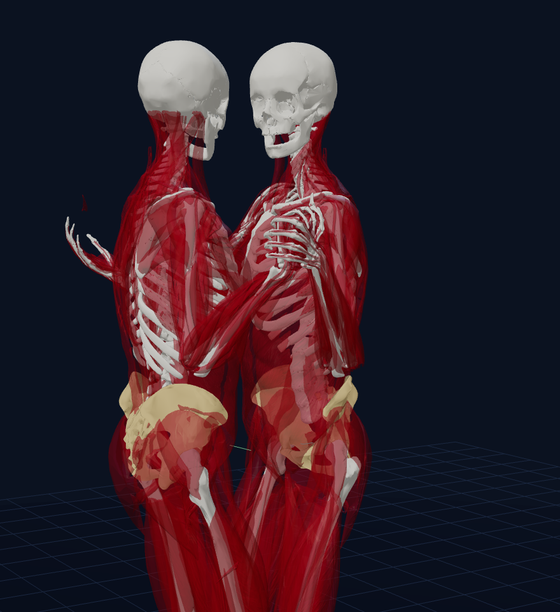
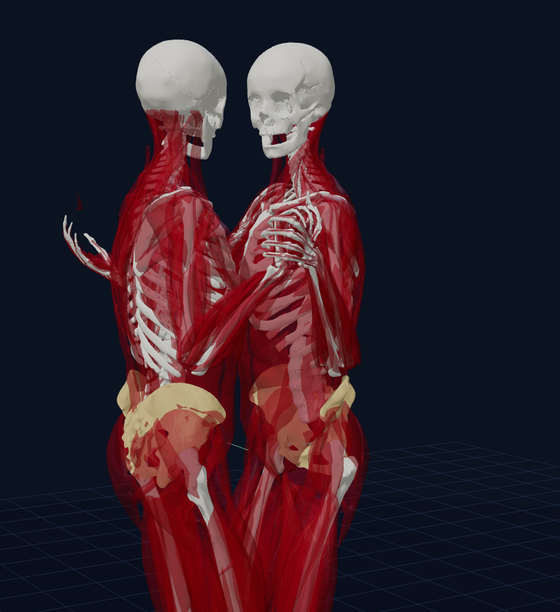
feat(#179): l'attitude choisie devient le comportement — mains jointes sur le côté, emboîtées, pouce du guideur légèrement replié
Choix du propriétaire, 23 novembre 2026 : l'attitude B. Les mains jointes ne sont plus entre les deux poitrines
(CADRE.handsSide), la prise dressée vaut par défaut (GRIP.upright), l'interrupteur ?essai=mainsCote disparaît ;
?essai=mainsBasses reste filmable. Pouce du guideur replié de 20° à chacune de ses deux articulations.
test_upper_body garde la prise : os des deux mains sans recouvrement, paumes face à face, pouce vers le haut,
main de la suiveuse dressée. Dossier, specs et images refaits.

Changed region(s): [[0.0911, 0.0621, 0.6679, 1.0], [0.5464, 0.0621, 0.5768, 0.0931]]

diff --git a/src/cadre.ts b/src/cadre.ts
@@ -40,10 +40,10 @@ export const CADRE = {
   /** #178: how deep (m) his arm would enter her torso, aimed at her back, for the hand to have fully left it.
    * Below that depth the hand is on its way: no jump between the back and the open frame. */
   leave: 0.05,
-  /** #179 (election, `?essai=`): the joined hands carried to the couple's side instead of between the two
-   * chests. `out`: metres outwards from the shoulders' midpoint; `drop`: metres lower than `handsDrop` (negative:
-   * higher). `handsSide` (owner, 23 November 2026): the middle of the hands at shoulder height, so the palm's
-   * centre a little under the shoulders and the fingers above them. */
+  /** #179: the joined hands are carried to the couple's side, not between the two chests. `out`: metres outwards
+   * from the shoulders' midpoint; `drop`: metres lower than `handsDrop` (negative: higher). `handsSide` (owner's
+   * choice, 23 November 2026): the middle of the hands at shoulder height, so the palm's centre a little under the
+   * shoulders. `handsLow`: a lower candidate, filmed with `?essai=mainsBasses`. */
   handsSide: { out: 0.2, drop: -0.05 }, handsLow: { out: 0.14, drop: 0.14 },
 };
 
@@ -94,13 +94,12 @@ export function solveFrame(own: ArmRig, partner: ArmRig, follower: boolean) {
   const leaderRig = follower ? partner : own, followerRig = follower ? own : partner;
   const joined = shoulder(leaderRig, "L").add(shoulder(followerRig, "R")).multiplyScalar(0.5);
   joined.y -= CADRE.handsDrop;
-  // #179: candidates of the election, inert without `?essai=`.
-  const carried = essai("mainsCote") ? CADRE.handsSide : essai("mainsBasses") ? CADRE.handsLow : null;
-  if (carried) {
-    const centre = leaderRig.chest.getWorldPosition(new THREE.Vector3()).add(followerRig.chest.getWorldPosition(new THREE.Vector3())).multiplyScalar(0.5);
-    joined.addScaledVector(joined.clone().sub(centre).setY(0).normalize(), carried.out);
-    joined.y -= carried.drop;
-  }
+  // #179 (owner's choice, 23 November 2026): the hands are carried to the couple's side, their middle at shoulder
+  // height. `handsLow` stays a candidate to film, inert without `?essai=mainsBasses`.
+  const carried = essai("mainsBasses") ? CADRE.handsLow : CADRE.handsSide;
+  const centre = leaderRig.chest.getWorldPosition(new THREE.Vector3()).add(followerRig.chest.getWorldPosition(new THREE.Vector3())).multiplyScalar(0.5);
+  joined.addScaledVector(joined.clone().sub(centre).setY(0).normalize(), carried.out);
+  joined.y -= carried.drop;
   const down = (rig: ArmRig, s: "L" | "R", out: number, drop: number) =>
     site(rig, [(s === "L" ? 1 : -1) * out, drop, 0]);
   const arms = follower ? {

diff --git a/src/upperBody.ts b/src/upperBody.ts
@@ -102,7 +102,7 @@ interface Arm {
  * may bend away from the forearm's axis (rad); `swivel`: how far her hand may turn on his palm, away from the
  * line to his index, towards where her forearm comes from (rad). */
 export const GRIP = { shift: 0.012, gap: 0.004, wrist: 1.0, swivel: 0.7,
-  /** Hands held up at the couple's side (#179, candidate `?essai=mainsCote`; owner, 23 November 2026).
+  /** Hands held up at the couple's side (#179; the owner's choice, 23 November 2026).
    * As in a ballroom hold (reference photograph, see the election's README): the leader's thumb points to the sky,
    * his fingers go forwards, raised by `lift` (rad), and close in one block round the edge of the follower's hand,
    * onto its back; `palm`: where his palm is asked to face, in his chest frame (the palm's normal leans 9° towards
@@ -119,7 +119,7 @@ export const GRIP = { shift: 0.012, gap: 0.004, wrist: 1.0, swivel: 0.7,
   upright: {
     palm: [-1, 0, 0.73] as V3, across: 1.373, at: [0.013, -0.01, 0.025] as V3, roll: 0.12, pitch: -0.116,
     lift: 0.5,
-    his: { fingers: [1.35, 0.437, 0.913], thumb: [1.55, 0.05, 0.1] } as HandShape,
+    his: { fingers: [1.35, 0.437, 0.913], thumb: [1.55, 0.35, 0.35] } as HandShape,
     hers: { fingers: [1, 1.011, 0.306], thumb: [0.459, 0, 0.573] } as HandShape,
     elbow: [0.25, -1, 0.1] as V3, drop: 0.1, wrist: 1.25,
   } };
@@ -235,8 +235,9 @@ export class UpperBody {
       // Flexion the rig asks of the elbow: the angle from the line of its arm to its forearm.
       const armU = r["armU" + s] as THREE.Object3D | undefined;
       const folded = !!armU && rigElbow.clone().sub(armU.getWorldPosition(new THREE.Vector3())).angleTo(target.clone().sub(rigElbow)) > ELBOW_MAX;
-      // #179, candidate: the joined hands held up, the follower's hand fitted into the leader's.
-      const upright = hold === "hands" && essai("mainsCote");
+      // #179: the joined hands held up, the follower's hand fitted into the leader's (the lower candidate
+      // `?essai=mainsBasses` keeps the hold of 22 November).
+      const upright = hold === "hands" && !essai("mainsBasses");
       const shape = hold === "hands" ? (upright ? (follower ? GRIP.upright.hers : GRIP.upright.his) : follower ? HAND_SHAPES.closes : HAND_SHAPES.offers)
         : hold === "back" ? HAND_SHAPES.flat : HAND_SHAPES.relaxed;
       // #179: the follower's hand takes the leader's, as his is posed (his layer of this image or of the last).

diff --git a/src/essais.ts b/src/essais.ts
@@ -8,17 +8,14 @@
  *
  * Premier tour (votes du 21 novembre 2026) : `idaMemePied` (#86), `ligneBustes` (#72) et `marcheDeroulee`
  * (#73) ont été retirés ; le témoin reste, pour les prochains tours.
- * Tour des mains (#179, 22 novembre 2026) : `mainsCote`, `mainsBasses`.
+ * Tour des mains (#179) : `mainsCote` choisie le 23 novembre 2026, devenue le comportement et retirée ;
+ * `mainsBasses` reste filmable.
  */
 export const ESSAIS = {
   /** Témoin : ne change rien. Sert à filmer le comportement actuel image par image hors du mode paire. */
   temoin: "témoin : comportement actuel",
-  /** #179 : les mains jointes tenues sur le côté du couple, leur milieu à hauteur d'épaule ; pouce du guideur vers le
-   * ciel, paume à mi-chemin entre sa droite et la suiveuse, ses doigts refermés sur le tranchant de la main de la
-   * suiveuse ; main de la suiveuse dressée, ses quatre doigts entre le pouce et l'index du guideur (précisions du
-   * 23 novembre 2026, photo de référence d'une tenue de salon). */
-  mainsCote: "mains jointes sur le côté du couple, leur milieu à hauteur d'épaule, emboîtées",
-  /** #179 : les mains jointes sur le côté du couple, plus bas et plus près, coudes détendus. */
+  /** #179 : les mains jointes sur le côté du couple, plus bas et plus près, coudes détendus, avec la prise du
+   * 22 novembre (l'attitude choisie les tient au niveau des épaules, emboîtées). */
   mainsBasses: "mains jointes sur le côté du couple, plus bas",
 } as const;
 export type Essai = keyof typeof ESSAIS;

diff --git a/docs/regles-proprietaire.md b/docs/regles-proprietaire.md
@@ -60,7 +60,7 @@ seuil chiffré : ils n'y figurent pas.
 | R19 | Cadre leader/suiveur : points de contact (avant-bras, biceps, omoplate, bassin, aisselle, coude, épaule, plexus) et intentions de guidage | Mains qui se rejoignent, main D du leader sur l'omoplate du suiveur, contraintes de contact | [cadre](cadre/spec-implementation.md) (#40) | oui pour les bras (#77 : mains sur l'omoplate et mains jointes, IK) ; contraintes sur bustes et bassins à venir |
 | R20 | « Ces points de contact vont ajouter des contraintes qui vont aider à converger vers les bons mouvements de danse » | Les contacts contraignent bras, bustes et bassins | [cadre](cadre/spec-implementation.md) | non |
 | R35 | Le bras droit du guideur ne se baisse pas (22 nov.) | Dans toutes les figures en paire, la main droite du guideur reste au-dessus de sa taille, même hors du dos de la suiveuse ; elle quitte le dos sans saut | [cadre](cadre/spec-implementation.md#le-bras-droit-du-guideur-ne-se-baisse-pas-178-22-novembre-2026) (#178) | oui (`test_cadre.mjs` : jamais sous −15 cm dans le repère de sa poitrine ; saut du coude 31 → 9 cm) |
-| R36 | La main droite de la suiveuse dans la main gauche du guideur, en position fermée : plusieurs attitudes (hauteur du coude, ouverture) ; prise : phalanges serrées, pouce ouvert presque à angle droit, main de la suiveuse posée en travers de celle du guideur (bas de sa paume au bord de la main du guideur), ses phalanges refermées autour de l'index du guideur, pouces croisés (22 nov.) ; dans l'attitude sur le côté, les mains se lèvent légèrement au-dessus de l'épaule (leur milieu à hauteur d'épaule), la paume du guideur regarde à mi-chemin entre sa droite et la suiveuse ; emboîtement : les doigts de l'index à l'auriculaire font un seul bloc (comme dans une moufle, rien ne passe entre eux), les quatre doigts de la suiveuse passent entre le pouce et l'index du guideur, paume contre paume, son pouce sous le sien, sans qu'os ni muscles se traversent ; référence, une photo de tenue de salon : main de la suiveuse dressée, pouce du guideur vers le ciel, ses doigts refermés sur le tranchant de la main de la suiveuse (23 nov.) | Mains visibles, hors des cages thoraciques ; prise conforme sur gros plan | [dossier](elections/2026-11-22-mains/README.md) (#179) | attitudes filmables (`?essai=`) ; doigts et poignet articulés avec `haut=1`, main de la suiveuse en travers de celle du guideur ([spec](spec-haut-du-corps.md)) ; attitude sur le côté (`?essai=mainsCote`, `scripts/mesure_essai_mains.mjs`) : milieu des mains à 1,6 cm sous les épaules, paume du guideur à 45° de sa droite, son pouce vers le ciel et ses doigts à 29° au-dessus de l'horizontale, main de la suiveuse dressée (à 19° de la verticale), os des deux mains au contact sans se traverser dans les cinq figures ; à juger sur gros plans |
+| R36 | La main droite de la suiveuse dans la main gauche du guideur, en position fermée : plusieurs attitudes (hauteur du coude, ouverture) ; prise : phalanges serrées, pouce ouvert presque à angle droit, main de la suiveuse posée en travers de celle du guideur (bas de sa paume au bord de la main du guideur), ses phalanges refermées autour de l'index du guideur, pouces croisés (22 nov.) ; dans l'attitude sur le côté, les mains se lèvent légèrement au-dessus de l'épaule (leur milieu à hauteur d'épaule), la paume du guideur regarde à mi-chemin entre sa droite et la suiveuse ; emboîtement : les doigts de l'index à l'auriculaire font un seul bloc (comme dans une moufle, rien ne passe entre eux), les quatre doigts de la suiveuse passent entre le pouce et l'index du guideur, paume contre paume, son pouce sous le sien, sans qu'os ni muscles se traversent ; référence, une photo de tenue de salon : main de la suiveuse dressée, pouce du guideur vers le ciel, ses doigts refermés sur le tranchant de la main de la suiveuse (23 nov.) | Mains visibles, hors des cages thoraciques ; prise conforme sur gros plan | [dossier](elections/2026-11-22-mains/README.md) (#179) | attitude sur le côté choisie le 23 nov., devenue le comportement (une plus basse reste filmable, `?essai=mainsBasses`) ; doigts et poignet articulés avec `haut=1`, main de la suiveuse en travers de celle du guideur ([spec](spec-haut-du-corps.md)) ; mesures (`scripts/mesure_essai_mains.mjs`, gardées par `scripts/test_upper_body.mjs`) : milieu des mains à 1,6 cm sous les épaules, paume du guideur à 45° de sa droite, son pouce vers le ciel et ses doigts à 29° au-dessus de l'horizontale, main de la suiveuse dressée (à 19° de la verticale), os des deux mains au contact sans se traverser dans les cinq figures ; squelettes jugés bons sur gros plans (23 nov.) |
 | R37 | L'avant-bras ou la main gauche de la suiveuse est posé sur l'épaule droite du guideur, contre le devant ou le côté de l'épaule ; son coude gauche cherche le contact avec le bras droit du guideur, sur lequel elle s'appuie quand il l'élève par l'épaule ou l'aisselle (boléro, etc.) (22 nov.) | Main sur l'épaule quand elle est à portée ; coude près du bras du guideur | [cadre](cadre/spec-implementation.md) (#180) | oui pour la pose (`test_cadre.mjs` : coude à 10–11 cm de l'axe du bras en moyenne) ; l'appui quand le guideur l'élève reste à faire |
 
 ## Musique

diff --git a/docs/spec-haut-du-corps.md b/docs/spec-haut-du-corps.md
@@ -76,11 +76,12 @@ Ces amplitudes sont des paramètres de ce modèle, pas des normes cliniques ni d
   le bas de sa paume au bord de la main du guideur, ses doigts vers son index, son pouce vers le sien. Son poignet
   s'articule pour cela (jusqu'à 57° hors de l'axe de l'avant-bras), et sa main peut tourner de 40° sur la paume du
   guideur vers la ligne de son propre avant-bras.
-- **Attitude sur le côté, mains emboîtées** (candidat `?essai=mainsCote`, `GRIP.upright` ; précisions du propriétaire,
+- **Attitude sur le côté, mains emboîtées** (choisie par le propriétaire le 23 novembre 2026, comportement de
+  l'application ; `GRIP.upright` ; ses précisions,
   23 novembre 2026, avec une [photo d'une tenue de salon, Wikimedia Commons](https://commons.wikimedia.org/wiki/File:Ballroom_dance_exhibition.jpg) en référence) : la paume du guideur est au point du rig, tournée à
   mi-chemin entre sa droite et la suiveuse (`palm`) ; son pouce pointe vers le ciel, ses doigts vont vers l'avant, à 29°
   au-dessus de l'horizontale (`lift`), et se referment d'un seul bloc sur le tranchant de la main de la suiveuse,
-  jusque sur le dos de sa main ; son poignet s'articule lui aussi, son pouce s'ouvre à angle droit (`his`). La main de
+  jusque sur le dos de sa main ; son poignet s'articule lui aussi, son pouce s'ouvre à angle droit, légèrement replié (`his`). La main de
   la suiveuse se place dans le repère de la sienne : dressée, à 79° de ses doigts vers son pouce (`across`), paume
   contre paume (`at`, `roll`, `pitch`), ses quatre doigts d'un seul bloc entre son pouce et son index, refermés autour
   de la palmure, son pouce sous le sien (`hers`). Aucun os ne traverse l'autre main : les constantes viennent d'une
@@ -88,7 +89,7 @@ Ces amplitudes sont des paramètres de ce modèle, pas des normes cliniques ni d
   guideur). Son coude tend sous sa main (`drop`) ; son poignet peut plier jusqu'à 72° dans cette prise (`wrist`) : les
   mains sont près des deux corps, son avant-bras arrive par le dos de sa main, qui pousse comme contre un mur.
 
-  | `ESSAI=mainsCote node scripts/mesure_essai_mains.mjs` | Sur place | Dans les figures |
+  | `node scripts/mesure_essai_mains.mjs` | Sur place | Dans les figures |
   |---|---|---|
   | Milieu des mains / moyenne des épaules | 1,6 cm dessous ; haut des doigts 2,8 cm au-dessus | 1,6 à 2 cm dessous |
   | Paume du guideur / sa droite | 45° | 39° à 46° |

diff --git a/CONTEXT.md b/CONTEXT.md
@@ -13,8 +13,10 @@ dépôt (ce fichier, `docs/spec-*.md`, `docs/adr/*`, `docs/TASKS.md`, README) et
 - **Prise des mains (#179, R36)** : la main droite de la suiveuse dans la main gauche du guideur. Aujourd'hui les
   mains jointes sont entre les deux poitrines (cachées, coudes repliés). Le propriétaire a précisé qu'il existe
   plusieurs attitudes et a décrit la prise (phalanges serrées, pouce ouvert, main de la suiveuse en travers de celle
-  du guideur, refermée autour de son index, pouces croisés). Attitudes filmables : `?essai=mainsCote`,
-  `?essai=mainsBasses`, inertes sans le paramètre ([dossier](docs/elections/2026-11-22-mains/README.md)).
+  du guideur, refermée autour de son index, pouces croisés). Dossier :
+  [élection des mains](docs/elections/2026-11-22-mains/README.md) ; **choix du 23 novembre : l'attitude B**, devenue le
+  comportement (mains sur le côté du couple, leur milieu à hauteur d'épaule, emboîtées) ; C reste filmable
+  (`?essai=mainsBasses`).
   Fait dans le haut du corps anatomique : doigts articulés, formes de main, poignet de la suiveuse articulé, sa main
   posée en travers de celle du guideur ([spec](docs/spec-haut-du-corps.md)). Reste : son poignet va au bout de son
   amplitude, les doigts ne se serrent pas, et le rig stylisé (sans `haut=1`) n'a pas de doigts.
@@ -22,7 +24,7 @@ dépôt (ce fichier, `docs/spec-*.md`, `docs/adr/*`, `docs/TASKS.md`, README) et
   bas). Il a corrigé B en trois temps : mains levées (leur milieu à hauteur d'épaule) ; paume du guideur à mi-chemin
   entre sa droite et la suiveuse, sa main vers le ciel ; puis l'emboîtement — les quatre doigts de la suiveuse, d'un
   seul bloc, entre le pouce et l'index du guideur, paume contre paume, son pouce sous le sien, sans qu'os ni muscles
-  se traversent. C'est fait dans le candidat `?essai=mainsCote` (`CADRE.handsSide`, `GRIP.upright` ; sonde
+  se traversent. C'est fait dans l'attitude B (`CADRE.handsSide`, `GRIP.upright` ; sonde
   `scripts/search_prise_mains.mjs`, mesures `scripts/mesure_essai_mains.mjs`) : os des deux mains au contact sans se
   traverser. Puis il a donné une photo de tenue de salon en référence : la prise a tourné d'un quart de tour dans le plan
   des paumes — pouce du guideur vers le ciel, ses doigts refermés sur le tranchant de la main de la suiveuse, dont la

diff --git a/AGENTS.md b/AGENTS.md
@@ -43,9 +43,9 @@ Haut du corps anatomique (#176) : [spec](docs/spec-haut-du-corps.md) ; option `h
 (`public/anatomy_upper.glb`, `scripts/build_upper_body.mjs`, `src/upperBody.ts` pur, `src/components/UpperBodyLayer.tsx`,
 `scripts/test_upper_body.mjs`) ; la main anatomique vient où le rig pose la sienne ; le rig publie la couche dans `rig.upperBody`.
 Cadre des bras (#40, [spec](docs/cadre/spec-implementation.md), `src/cadre.ts`, `scripts/test_cadre.mjs`) : le bras droit du guideur ne se baisse pas (#178, R35) ;
-main gauche de la suiveuse sur l'épaule droite du guideur, coude vers son bras (#180, R37) ; prise des mains (#179, R36) : attitudes `?essai=mainsCote|mainsBasses`
+main gauche de la suiveuse sur l'épaule droite du guideur, coude vers son bras (#180, R37) ; prise des mains (#179, R36) : attitude choisie le 23 novembre (mains sur le côté, emboîtées), candidat restant `?essai=mainsBasses`
 ([dossier](docs/elections/2026-11-22-mains/README.md)), doigts et poignet articulés dans le haut du corps (`HAND_SHAPES`, `GRIP`, `src/upperBody.ts`) ;
-emboîtement des mains du candidat `mainsCote` : sonde de calibrage `scripts/search_prise_mains.mjs`, mesure `scripts/mesure_essai_mains.mjs` (jeu entre les os des deux mains).
+emboîtement des mains : sonde de calibrage `scripts/search_prise_mains.mjs`, mesure `scripts/mesure_essai_mains.mjs` (jeu entre les os des deux mains).
 Mode jeu (#140, [spec](docs/spec-jeu-file-auto.md)) : les commandes s'empilent dans une file (plus de note ni
 de refus), Espace bascule entre l'écoute et la danse automatique (tirage reproductible par graine) ; un plan
 ne réécrit jamais son passé. Hasard tenu (#152) : le tirage se souvient des figures et des paires récentes

diff --git a/docs/cadre/spec-implementation.md b/docs/cadre/spec-implementation.md
@@ -375,11 +375,12 @@ cachées entre les cages thoraciques et que les doigts entrent dans les côtes d
 
 Le propriétaire a précisé qu'il existe plusieurs attitudes (hauteur du coude, mains ouvertes vers l'extérieur ou
 gardées près de l'épaule) et il a décrit la prise : phalanges serrées, pouce ouvert, main de la suiveuse posée en
-travers de celle du guideur, ses phalanges refermées autour de l'index du guideur, pouces croisés. Deux autres
-attitudes sont filmables (`?essai=mainsCote`, `?essai=mainsBasses`, inertes sans le paramètre) ; l'application ne
-change pas tant qu'il n'a pas tranché : [dossier](../elections/2026-11-22-mains/README.md).
+travers de celle du guideur, ses phalanges refermées autour de l'index du guideur, pouces croisés. Il a choisi le
+23 novembre 2026 l'attitude sur le côté (`CADRE.handsSide`), devenue le comportement : les mains jointes ne sont plus
+entre les deux poitrines. Une attitude plus basse reste filmable (`?essai=mainsBasses`, inerte sans le paramètre) :
+[dossier](../elections/2026-11-22-mains/README.md).
 
-Précision du 23 novembre 2026 pour l'attitude sur le côté (`mainsCote`, `CADRE.handsSide`) : les mains se lèvent
+Précision du 23 novembre 2026 pour l'attitude sur le côté (`CADRE.handsSide`) : les mains se lèvent
 légèrement au-dessus de l'épaule, leur milieu à hauteur d'épaule. Le point des mains jointes est donc 1 cm sous la
 moyenne des deux épaules (le centre de la paume ; le milieu de la main est plus haut), 20 cm vers l'extérieur du
 couple. L'orientation des mains (pouce du guideur vers le ciel, paume à mi-chemin entre sa droite et la suiveuse) et
